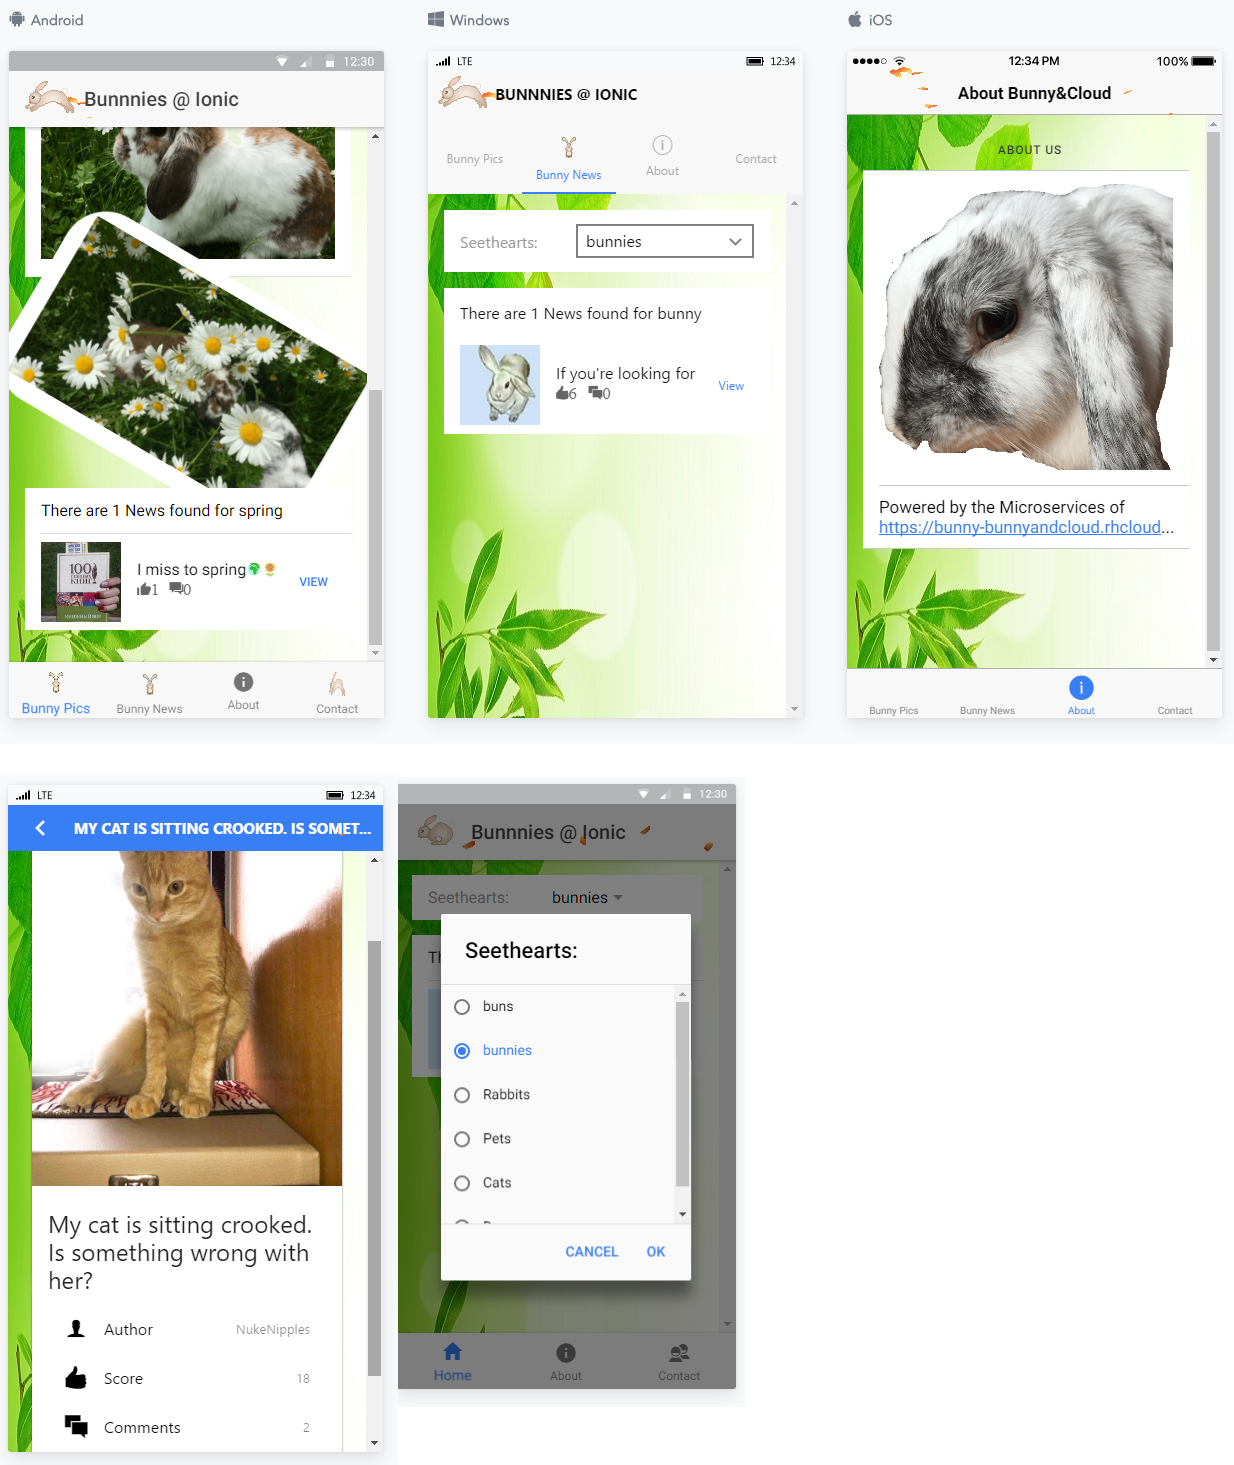
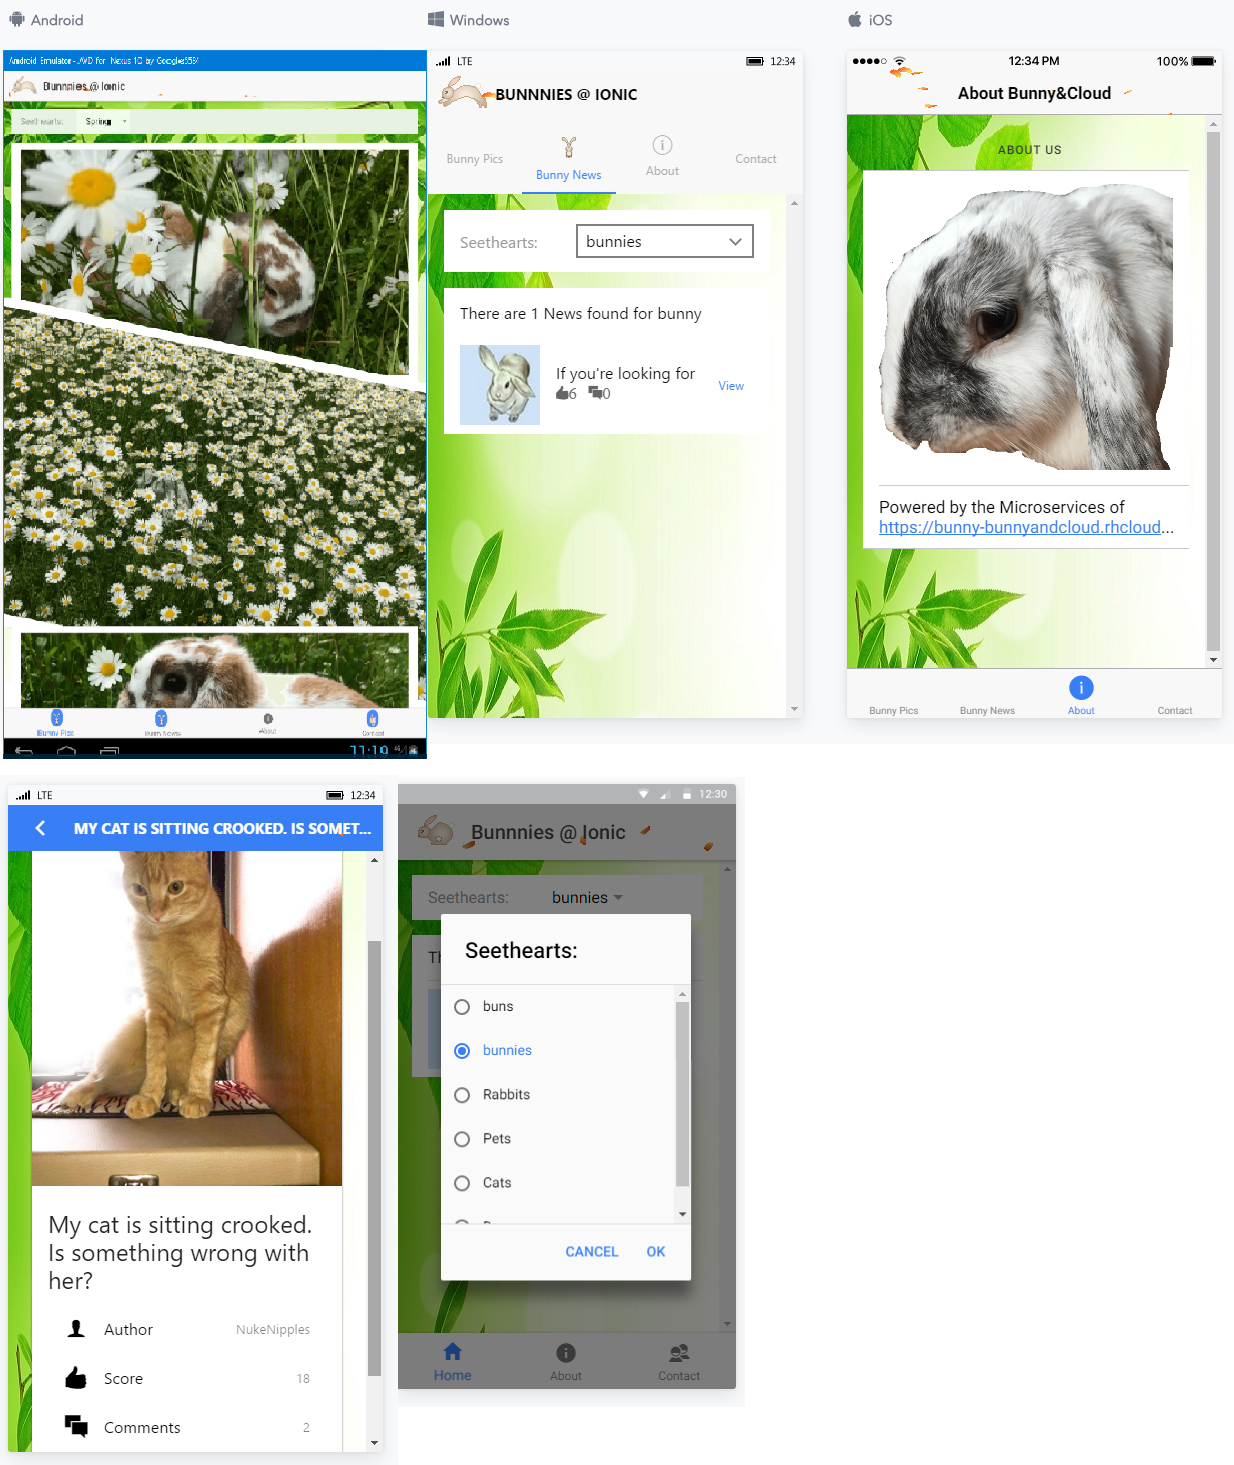
transparent lea & branding

Changed region(s): [[0.0, 0.0307, 0.3695, 0.5222]]

diff --git a/src/pages/home/home.html b/src/pages/home/home.html
@@ -13,7 +13,7 @@
 
 <ion-content padding>
     <ion-list>
-      <ion-item>
+      <ion-item class="contentheader">
         <ion-label fixed>Seethearts:</ion-label>
         <ion-select (ionChange)="changeCategory()" [(ngModel)]="category" name="category">
           <ion-option value="">[choose one]</ion-option>

diff --git a/src/theme/variables.scss b/src/theme/variables.scss
@@ -44,6 +44,14 @@ $font-path: "../assets/fonts";
   box-shadow: 0 0 8px 1px #51a7e8;*/
 }
 
+ion-item
+{
+  background-color: transparent !important;
+  /*background-color: #f0fcea !important;*/
+  text-align:center;
+  align-content: center;
+}
+
 .contentheader
 {
   width:100%;

diff --git a/src/pages/contact/contact.html b/src/pages/contact/contact.html
@@ -8,7 +8,7 @@
 
 <ion-content padding text-center>
 <ion-list text-center>
-    <ion-list-header>Contact us</ion-list-header>
+    <ion-list-header class="contentheader">Contact us</ion-list-header>
     <ion-item>
       <img src="assets/lea.png" />
     </ion-item>

diff --git a/src/pages/about/about.html b/src/pages/about/about.html
@@ -8,7 +8,7 @@
 
 <ion-content padding text-center>
 <ion-list text-center>
-  <ion-list-header>About us</ion-list-header>
+  <ion-list-header class="contentheader">About us</ion-list-header>
   <ion-item>
     <img src="assets/lea.png" />
   </ion-item>
